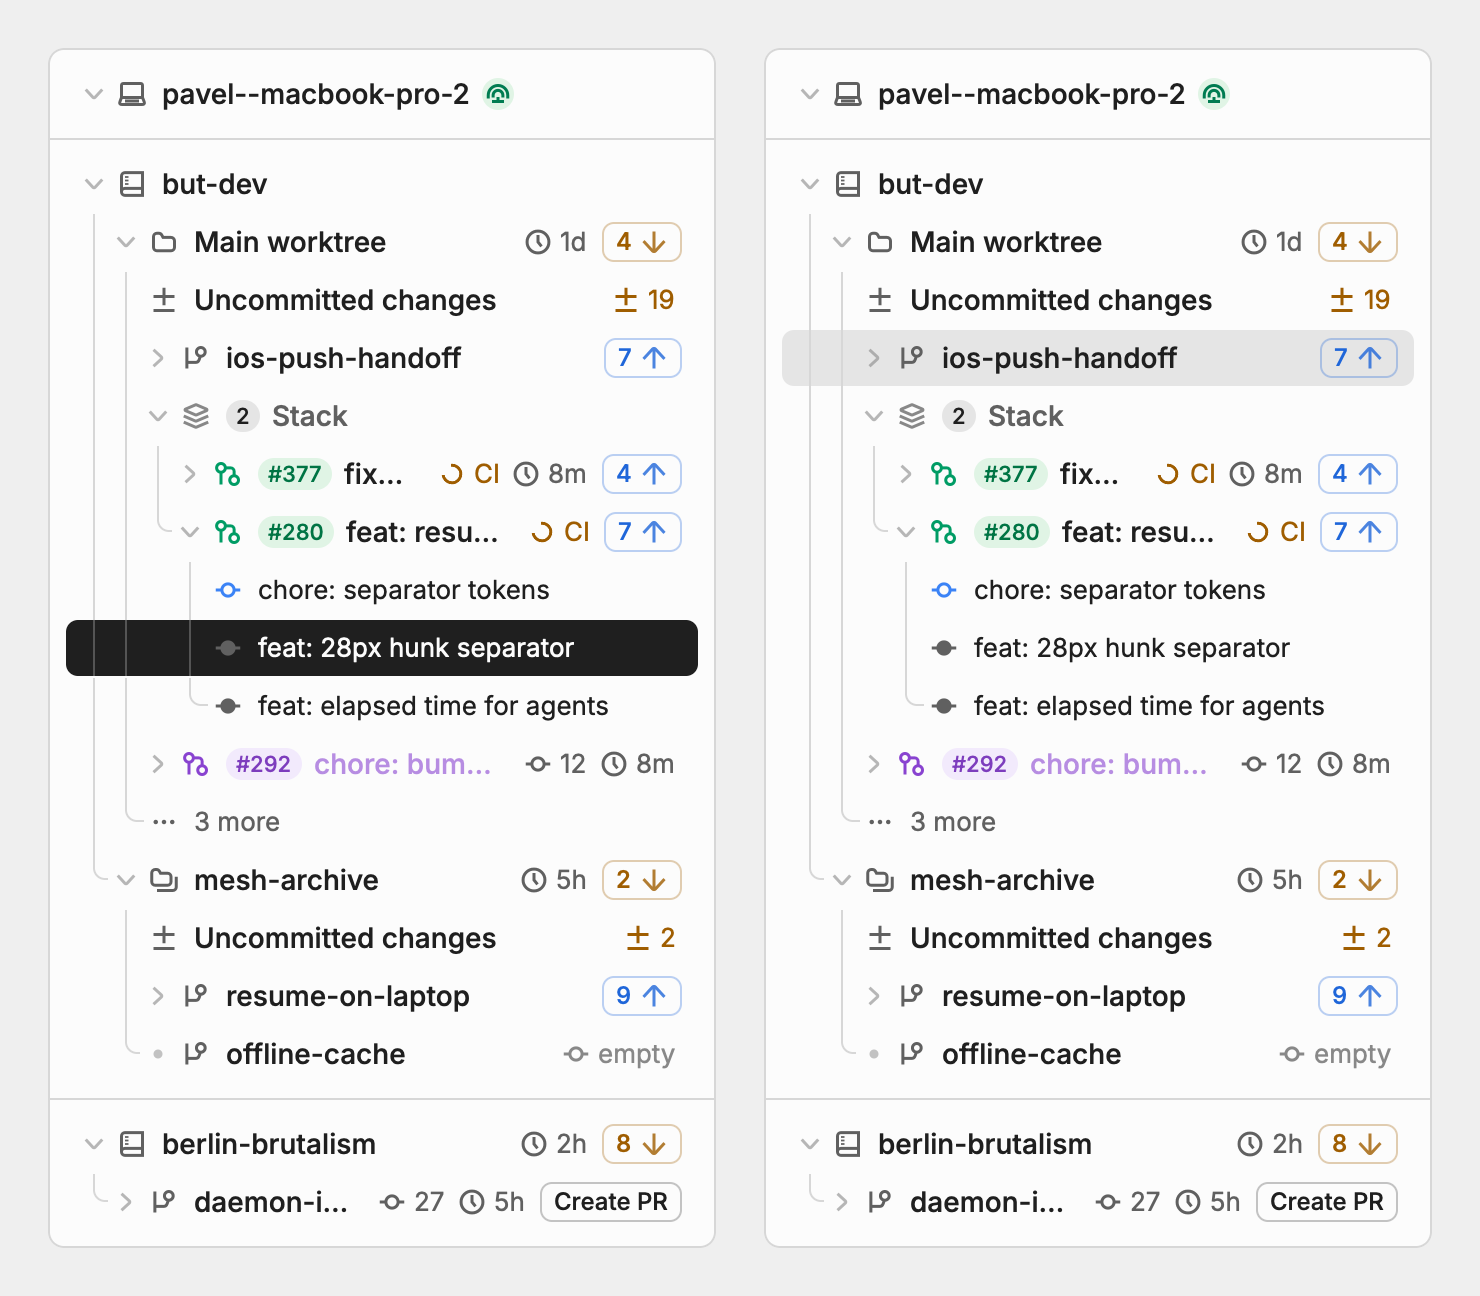
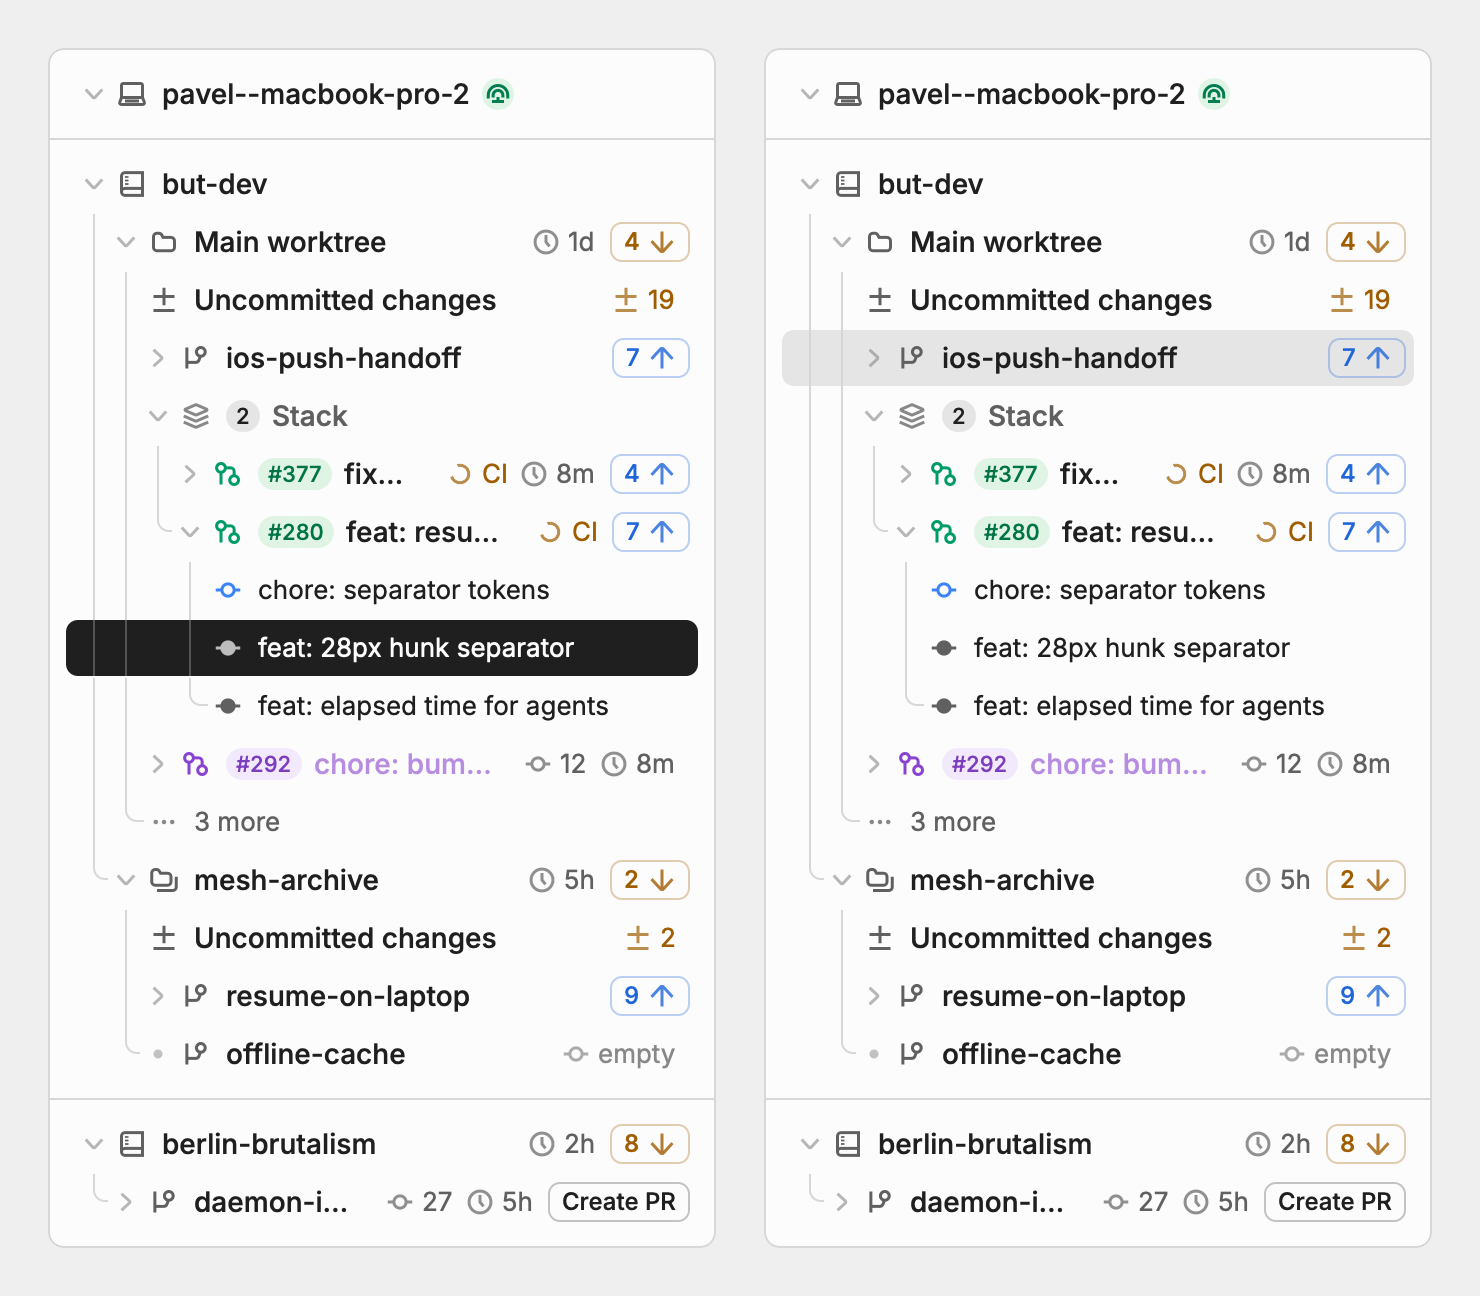
fix(but-ui-gpui): a more row's glyph is a step quieter than its words
GPUI drew the kebab or chevron of "12 more" and "Show fewer" in the
muted ink of its label, where but-ui-react's MoreItem draws it in the
subtle one, so the tail reads quieter still than the rows it hides. The
pantry's shots of the stories with one are taken again.

diff --git a/crates/but-ui-gpui/src/sidebar_row.rs b/crates/but-ui-gpui/src/sidebar_row.rs
@@ -876,8 +876,10 @@ pub fn more_item(
         true => Icon::ChevronUp,
         false => Icon::Kebab,
     };
+    // Its glyph a step quieter than its words, as React's, so the tail reads quieter still
+    // than the rows it hides.
     sidebar_row(id)
-        .small_icon(glyph)
+        .inked_icon(glyph, 12., Ink::Subtle)
         .muted_text()
         .label(div().min_w_0().truncate().text_13().child(label.into()))
 }
